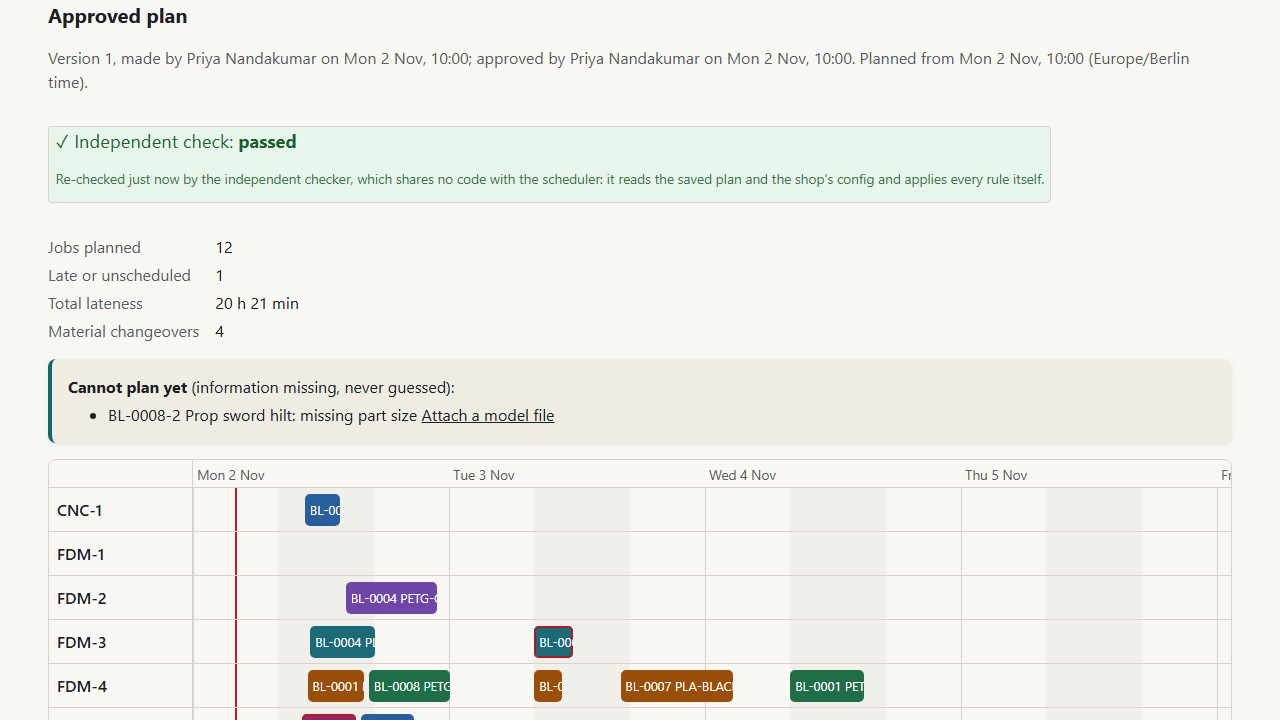
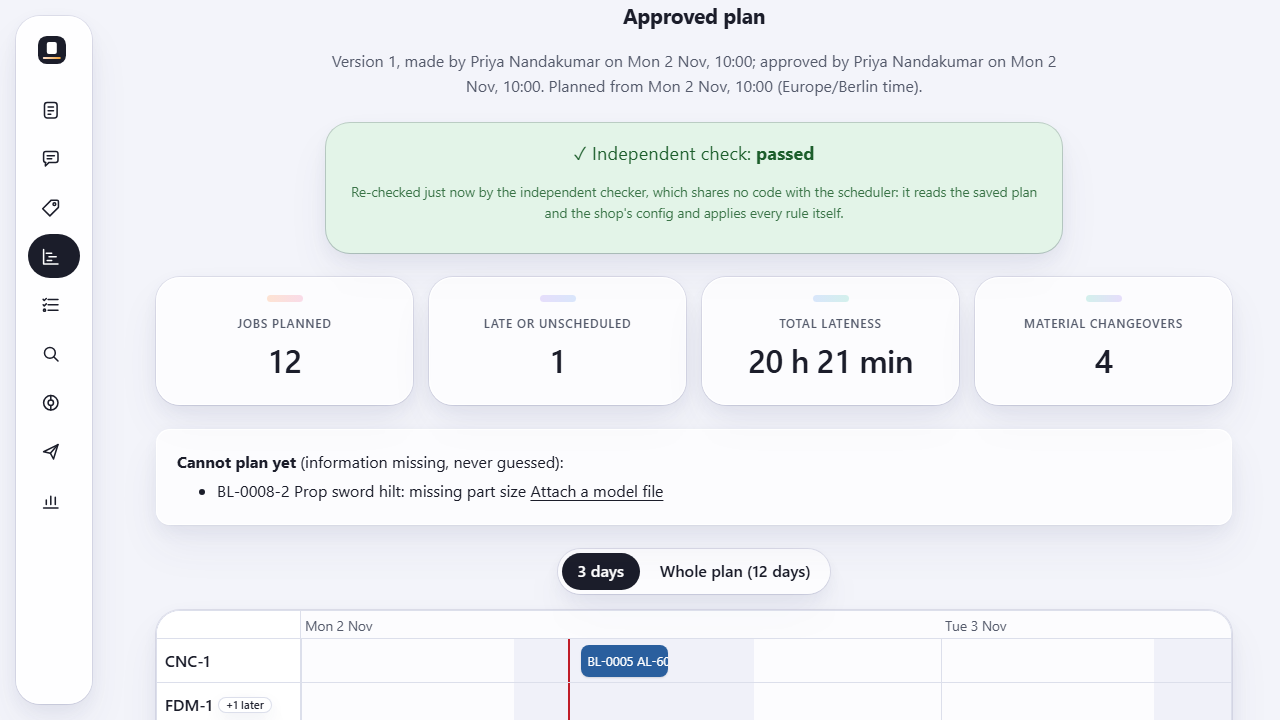
README screenshots in the final design; dispatch replies recorded for the walkthrough
Screenshots wait off the icon rail until animations settle. The top-up recorded three new
replies (the dispatch proposal and tool calls, and one re-plan summary whose prompt changed);
every other scene replayed its existing reply.

diff --git a/apps/web/demo/video.spec.ts b/apps/web/demo/video.spec.ts
@@ -60,6 +60,17 @@ async function shot(page: Page, name: string, top?: string) {
     // Put this heading at the top of the picture.
     await page.getByRole("heading", { name: top, exact: true }).first().evaluate((el) => el.scrollIntoView({ block: "start" }));
   }
+  // Off the icon rail, which opens on hover and would cover the page; then let every animation
+  // and transition finish (motion is on in the showcase).
+  await page.mouse.move(1200, 700);
+  await page.evaluate(() =>
+    Promise.all(
+      document
+        .getAnimations()
+        .filter((a) => a.effect?.getComputedTiming().iterations !== Infinity)
+        .map((a) => a.finished.catch(() => undefined)),
+    ),
+  );
   await page.screenshot({ path: path.join(SHOTS, `${name}.png`) });
 }
 
